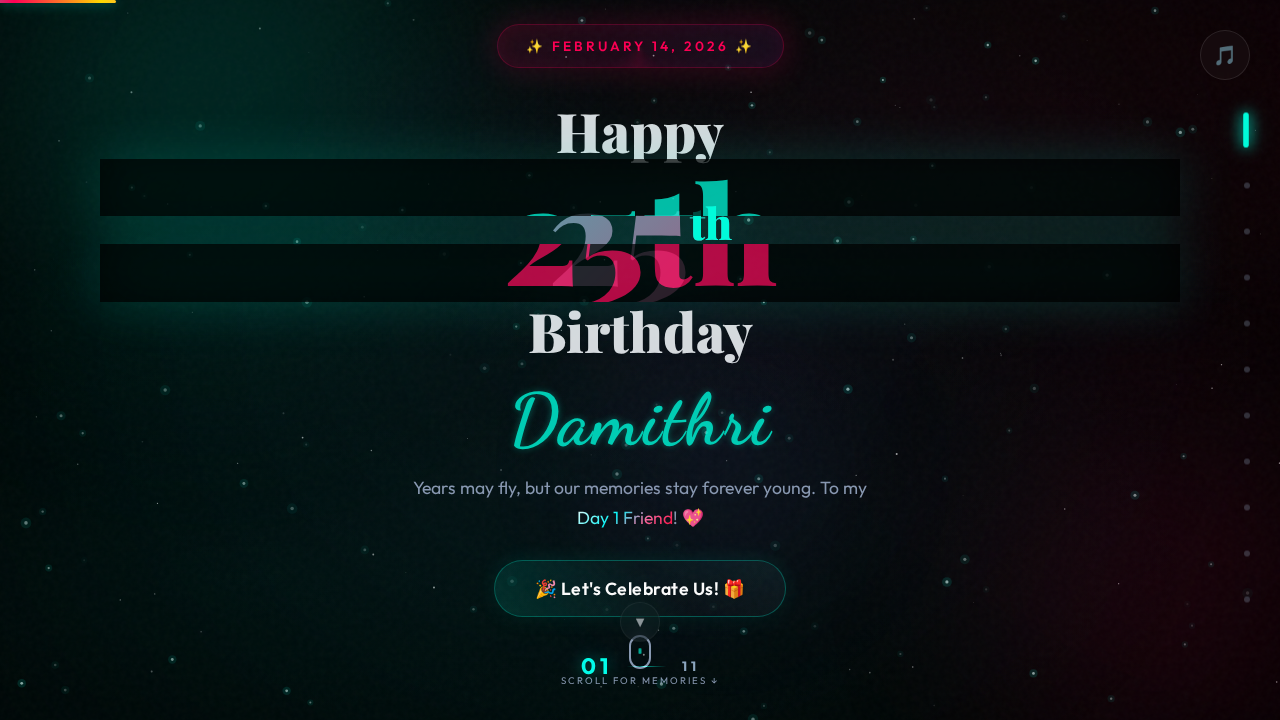
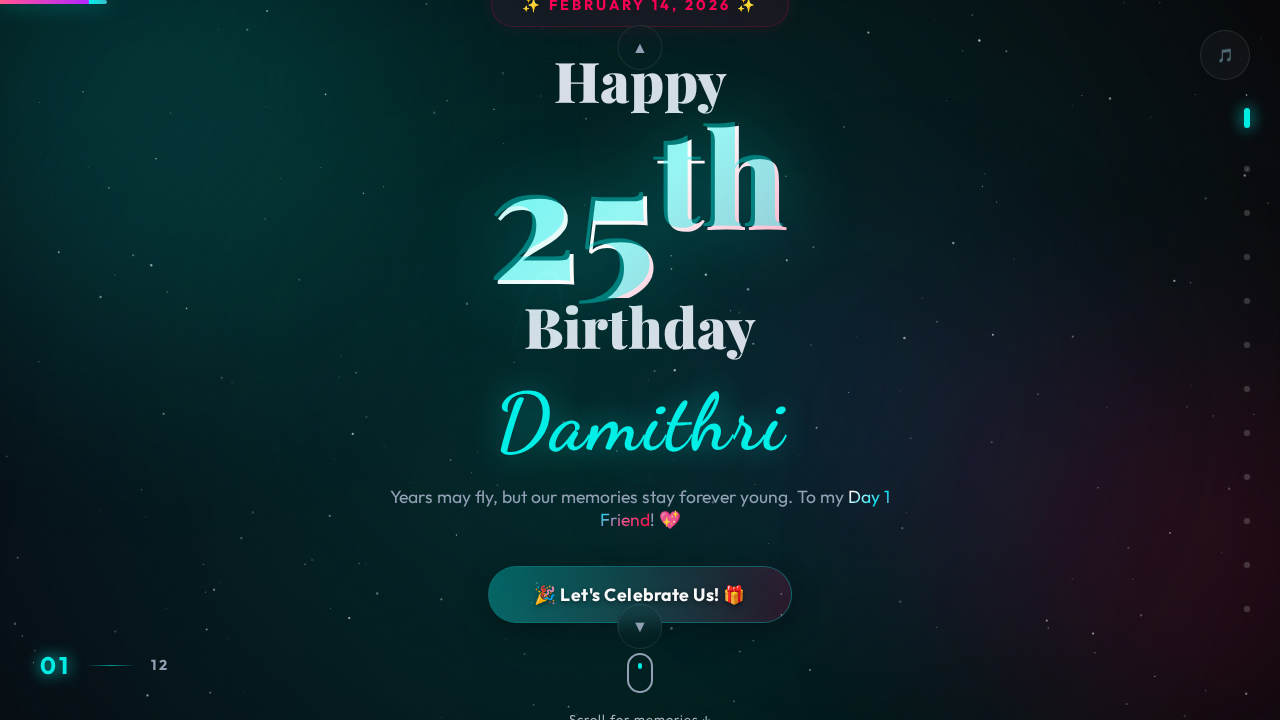
Enhance project to v9.0: Add Memory Game, A11y, Performance

diff --git a/script.js b/script.js
@@ -79,6 +79,10 @@ document.addEventListener('DOMContentLoaded', () => {
         });
 
         const animate = () => {
+            if (document.hidden) {
+                requestAnimationFrame(animate);
+                return;
+            }
             ctx.clearRect(0, 0, width, height);
 
             for(let i = 0; i < particles.length; i++) {
@@ -132,6 +136,10 @@ document.addEventListener('DOMContentLoaded', () => {
         }
 
         const drawStars = () => {
+            if (document.hidden) {
+                requestAnimationFrame(drawStars);
+                return;
+            }
             ctx.clearRect(0, 0, w, h);
             stars.forEach(s => {
                 s.alpha += s.twinkle * s.dir;
@@ -347,6 +355,7 @@ document.addEventListener('DOMContentLoaded', () => {
         if (id === 'pg-guest') loadGuestbook();
         if (id === 'pg-count') startCountdown();
         if (id === 'pg-tw') spawnFloatingDecos();
+        if (id === 'pg-memory') initMemoryGame();
     };
 
     // ─── 3D TILT EFFECT ───
@@ -634,7 +643,13 @@ document.addEventListener('DOMContentLoaded', () => {
             window.addEventListener('mousemove', (e) => { if(isDrag) { currDeg = prevDeg - (e.clientX - startX) * 0.5; gal.style.transform = `rotateX(-5deg) rotateY(${currDeg}deg)`; } });
             window.addEventListener('mouseup', () => { isDrag = false; gal.classList.remove('grabbing'); });
         }
-        const autoRot = () => { if(!isDrag) { currDeg += 0.2; gal.style.transform = `rotateX(-5deg) rotateY(${currDeg}deg)`; } requestAnimationFrame(autoRot); };
+        const autoRot = () => {
+            if (!document.hidden && !isDrag) {
+                currDeg += 0.2;
+                gal.style.transform = `rotateX(-5deg) rotateY(${currDeg}deg)`;
+            }
+            requestAnimationFrame(autoRot);
+        };
         autoRot();
     };
     initGallery();
@@ -762,5 +777,55 @@ document.addEventListener('DOMContentLoaded', () => {
         mBtn.classList.add('celebrated');
     });
 
-    console.log(`%c🚀 Damithri's 25th Premium Engine v8 Loaded!`, 'color:#00f2ea;font-weight:bold;font-size:14px;background:#000;padding:5px;');
+    // ─── MEMORY MATCH ───
+    let memGameInited = false;
+    const initMemoryGame = () => {
+        if(memGameInited) return;
+        const board = document.getElementById('memory-board');
+        if(!board) return;
+        memGameInited = true;
+        board.innerHTML = '';
+        const items = ['🍕','🦋','💃','🤣','🎓','💖','🌟','🔥'];
+        const deck = [...items, ...items].sort(() => 0.5 - Math.random());
+        let first = null, lock = false, matches = 0;
+
+        deck.forEach(item => {
+            const card = document.createElement('div');
+            card.className = 'memory-card';
+            card.tabIndex = 0; // Accessibility
+            card.innerHTML = `<div class="memory-face memory-front">${item}</div><div class="memory-face memory-back">❓</div>`;
+
+            const flip = () => {
+                if(lock || card === first || card.classList.contains('flipped')) return;
+                card.classList.add('flipped'); playTick();
+
+                if(!first) {
+                    first = card;
+                } else {
+                    lock = true;
+                    if(first.innerText === card.innerText) {
+                        first.removeEventListener('click', flip);
+                        card.removeEventListener('click', flip);
+                        first.classList.add('matched'); card.classList.add('matched');
+                        first = null; lock = false; matches++; playChime();
+                        if(matches === items.length) {
+                            setTimeout(() => { document.getElementById('memory-win').classList.remove('hidden'); launchFW(10); }, 500);
+                        }
+                    } else {
+                        setTimeout(() => {
+                            first.classList.remove('flipped');
+                            card.classList.remove('flipped');
+                            first = null; lock = false;
+                        }, 1000);
+                    }
+                }
+            };
+
+            card.addEventListener('click', flip);
+            card.addEventListener('keydown', (e) => { if(e.key === 'Enter' || e.key === ' ') { e.preventDefault(); flip(); } });
+            board.appendChild(card);
+        });
+    };
+
+    console.log(`%c🚀 Damithri's 25th Premium Engine v9.0 Loaded!`, 'color:#00f2ea;font-weight:bold;font-size:14px;background:#000;padding:5px;');
 });

diff --git a/index.html b/index.html
@@ -74,22 +74,23 @@
     <div id="pg-counter">
         <span id="pg-cur">01</span>
         <div class="pg-line"></div>
-        <span id="pg-tot">11</span>
+        <span id="pg-tot">12</span>
     </div>
 
     <!-- NAV DOTS -->
     <nav id="dots">
-        <a class="dot active" data-p="0"><i></i><em>Welcome</em></a>
-        <a class="dot" data-p="1"><i></i><em>25 Years</em></a>
-        <a class="dot" data-p="2"><i></i><em>Wish</em></a>
-        <a class="dot" data-p="3"><i></i><em>Heart</em></a>
-        <a class="dot" data-p="4"><i></i><em>Gift</em></a>
-        <a class="dot" data-p="5"><i></i><em>Letters</em></a>
-        <a class="dot" data-p="6"><i></i><em>Balloons</em></a>
-        <a class="dot" data-p="7"><i></i><em>Gallery</em></a>
-        <a class="dot" data-p="8"><i></i><em>Guestbook</em></a>
-        <a class="dot" data-p="9"><i></i><em>Wishes</em></a>
-        <a class="dot" data-p="10"><i></i><em>Finale</em></a>
+        <a class="dot active" data-p="0" aria-label="Go to Welcome"><i></i><em>Welcome</em></a>
+        <a class="dot" data-p="1" aria-label="Go to 25 Years"><i></i><em>25 Years</em></a>
+        <a class="dot" data-p="2" aria-label="Go to Wish"><i></i><em>Wish</em></a>
+        <a class="dot" data-p="3" aria-label="Go to Heart"><i></i><em>Heart</em></a>
+        <a class="dot" data-p="4" aria-label="Go to Gift"><i></i><em>Gift</em></a>
+        <a class="dot" data-p="5" aria-label="Go to Letters"><i></i><em>Letters</em></a>
+        <a class="dot" data-p="6" aria-label="Go to Balloons"><i></i><em>Balloons</em></a>
+        <a class="dot" data-p="7" aria-label="Go to Gallery"><i></i><em>Gallery</em></a>
+        <a class="dot" data-p="8" aria-label="Go to Guestbook"><i></i><em>Guestbook</em></a>
+        <a class="dot" data-p="9" aria-label="Go to Wishes"><i></i><em>Wishes</em></a>
+        <a class="dot" data-p="10" aria-label="Go to Memory Match"><i></i><em>Memory</em></a>
+        <a class="dot" data-p="11" aria-label="Go to Finale"><i></i><em>Finale</em></a>
     </nav>
 
     <!-- ARROWS -->
@@ -117,7 +118,7 @@
                 <h2 class="hero-name flicker el">Damithri</h2>
                 <p class="hero-sub el" id="hero-sub">Years may fly, but our memories stay forever young. To my <span
                         class="grad-text">Day 1 Friend</span>! 💖</p>
-                <button id="start-btn" class="cta el">
+                <button id="start-btn" class="cta el" aria-label="Start Celebration">
                     <span>🎉 Let's Celebrate Us! 🎁</span>
                     <i class="cta-glow"></i>
                 </button>
@@ -452,7 +453,23 @@
             </div>
         </section>
 
-        <!-- 10: FINALE -->
+        <!-- 10: MEMORY MATCH -->
+        <section class="pg" id="pg-memory" data-anim="zoom">
+            <div class="gradient-mesh m2"></div>
+            <div class="pg-c">
+                <h2 class="sec-title el">🧠 Memory Match 🧠</h2>
+                <p class="sub el">Match the memories to unlock a special message!</p>
+                <div class="memory-board el" id="memory-board">
+                    <!-- Cards injected via JS -->
+                </div>
+                <div class="memory-win hidden" id="memory-win">
+                    <h3 class="grad-text">🎉 Perfect Match! 🎉</h3>
+                    <p class="sub">Just like us! 👯♀</p>
+                </div>
+            </div>
+        </section>
+
+        <!-- 11: FINALE -->
         <section class="pg" id="pg-fin" data-anim="zoom">
             <div class="gradient-mesh m1"></div>
             <div class="pg-c">

diff --git a/style.css b/style.css
@@ -20,7 +20,7 @@
     /* Hyper-real Glass */
     --glass: rgba(255, 255, 255, 0.03);
     --glass-b: 20px;
-    --glass-border: rgba(255, 255, 255, 0.08);
+    --glass-border: rgba(255, 255, 255, 0.12);
     --glass-shadow: 0 8px 32px 0 rgba(0, 0, 0, 0.5);
 
     --gb: rgba(255, 255, 255, 0.1);
@@ -81,7 +81,7 @@ body::before {
         conic-gradient(from 0deg at 50% 50%, rgba(0,0,0,0) 0deg, rgba(0, 242, 234, 0.02) 180deg, rgba(0,0,0,0) 360deg);
     filter: blur(80px);
     z-index: 0;
-    animation: auroraSpin 60s linear infinite;
+    animation: auroraSpin 120s linear infinite;
     pointer-events: none;
 }
 
@@ -221,9 +221,9 @@ body::before {
     background: rgba(255, 255, 255, 0.02);
     backdrop-filter: blur(var(--glass-b)) saturate(180%);
     -webkit-backdrop-filter: blur(var(--glass-b)) saturate(180%);
-    border: 1px solid rgba(255, 255, 255, 0.08);
-    border-top: 1px solid rgba(255, 255, 255, 0.15);
-    border-left: 1px solid rgba(255, 255, 255, 0.12);
+    border: 1px solid rgba(255, 255, 255, 0.1);
+    border-top: 1px solid rgba(255, 255, 255, 0.25);
+    border-left: 1px solid rgba(255, 255, 255, 0.15);
     border-radius: 24px;
     padding: 30px;
     box-shadow: var(--glass-shadow), inset 0 0 20px rgba(255, 255, 255, 0.02);
@@ -682,3 +682,53 @@ body::before {
 ::-webkit-scrollbar-track { background: var(--bg); }
 ::-webkit-scrollbar-thumb { background: var(--dim); border-radius: 3px; }
 ::-webkit-scrollbar-thumb:hover { background: var(--c); }
+
+/* MEMORY MATCH GAME */
+.memory-board {
+    display: grid;
+    grid-template-columns: repeat(4, 1fr);
+    gap: 15px;
+    max-width: 500px;
+    margin: 0 auto;
+}
+.memory-card {
+    aspect-ratio: 1;
+    position: relative;
+    transform-style: preserve-3d;
+    transition: transform 0.6s;
+    cursor: pointer;
+}
+.memory-card:focus { outline: 2px solid var(--c); border-radius: 10px; }
+.memory-card.flipped { transform: rotateY(180deg); }
+.memory-card.matched { animation: pulseMatch 0.5s ease-out; }
+.memory-face {
+    position: absolute; inset: 0;
+    backface-visibility: hidden;
+    border-radius: 12px;
+    display: flex; align-items: center; justify-content: center;
+    font-size: 2rem;
+    border: 1px solid rgba(255,255,255,0.1);
+    box-shadow: 0 4px 15px rgba(0,0,0,0.3);
+}
+.memory-front {
+    background: rgba(255,255,255,0.1);
+    backdrop-filter: blur(10px);
+    transform: rotateY(180deg);
+}
+.memory-back {
+    background: linear-gradient(135deg, rgba(255,255,255,0.05), rgba(255,255,255,0.01));
+    color: var(--c);
+    font-size: 1.5rem;
+}
+@keyframes pulseMatch { 0% { transform: rotateY(180deg) scale(1); } 50% { transform: rotateY(180deg) scale(1.1); } 100% { transform: rotateY(180deg) scale(1); } }
+
+/* ACCESSIBILITY: REDUCED MOTION */
+@media (prefers-reduced-motion: reduce) {
+    *, *::before, *::after {
+        animation-duration: 0.01ms !important;
+        animation-iteration-count: 1 !important;
+        transition-duration: 0.01ms !important;
+        scroll-behavior: auto !important;
+    }
+    .orb, .gradient-mesh, #cursor-glow { display: none; }
+}

diff --git a/README.md b/README.md
@@ -1,12 +1,13 @@
-# 🎂 Damithri's 25th Birthday Celebration Site
+# 🎂 Damithri's 25th Birthday Celebration Site — Ultra Premium v9.0
 
 A magical, interactive, and fully responsive birthday website designed to celebrate Damithri's 25th birthday! This project features smooth animations, a 3D gallery, a virtual cake blowing experience, and more.
 
 ## ✨ Features
 
-- **Interactive Storytelling**: A 10-page journey through memories and wishes.
-- **3D Animations**: Custom particle effects, fireworks, and 3D CSS transformations.
-- **Virtual Cake**: A blowable candle simulation (click or use microphone if implemented).
+- **Interactive Storytelling**: A 12-page journey through memories and wishes.
+- **🧠 Memory Match Game**: A fun mini-game to unlock a special message.
+- **3D Animations**: Custom particle effects, fireworks, and 3D CSS transformations (optimized for performance).
+- **Virtual Cake**: A blowable candle simulation (click or use microphone).
 - **Guestbook**: A local-storage based guestbook to sign messages.
 - **Responsive Design**: Looks great on mobile and desktop.
 - **Audio Experience**: Background music and sound effects (requires user interaction to start).
